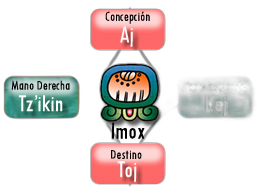
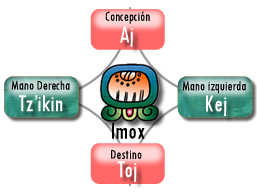
Agregando informacion calendario

diff --git a/Web/js/Infografia.js b/Web/js/Infografia.js
@@ -1,5 +1,5 @@
-// Función para generar la imagen y descargarla
-function descargarImagen() {
+ // Función para generar la imagen y descargarla
+ function descargarImagen() {
     // Capturar el elemento que contiene la información
     var elementoInfo = document.getElementById('infografia');
 
@@ -12,21 +12,27 @@ function descargarImagen() {
         var canvasConFondo = document.createElement('canvas');
         var ctxFondo = canvasConFondo.getContext('2d');
 
-        // Establecer el tamaño del canvas secundario
-        canvasConFondo.width = canvas.width;
-        canvasConFondo.height = canvas.height;
 
         var imagenFondo = new Image();
         imagenFondo.src = 'assets/tik.jpg';
 
         imagenFondo.onload = function () {
 
+            var elementoRect = elementoInfo.getBoundingClientRect();
+            // Establecer el tamaño del canvas secundario
+            canvasConFondo.width = elementoRect.width;
+            canvasConFondo.height = elementoRect.height;
 
             // Dibujar la imagen de fondo en el canvas secundario
             ctxFondo.drawImage(imagenFondo, 0, 0, canvasConFondo.width, canvasConFondo.height);
 
             // Dibujar la imagen original sobre el canvas secundario
             ctxFondo.drawImage(canvas, 0, 0);
+
+            ctxFondo.font = "bold 20px Arial";
+            ctxFondo.fillStyle = "white";
+            ctxFondo.textAlign = "end";
+            ctxFondo.fillText("tiempomaya.com", canvasConFondo.width - 20, canvasConFondo.height - 20);
 
             // Crear un enlace para descargar la imagen
             var enlace = document.createElement('a');

diff --git a/Web/css/calculadora.css b/Web/css/calculadora.css
@@ -14,7 +14,6 @@
     width: 60%;
     width: 50%; /* Cambiado a un porcentaje más alto */
     margin: auto;
-    padding: 20px;
 }
 
 #calendar {
@@ -23,7 +22,6 @@
     width: 60%;
     width: 50%; /* Cambiado a un porcentaje más alto */
     margin: auto;
-    padding: 20px;
 }
 
 .form-control {
@@ -85,8 +83,6 @@
     width: 100%;
     height: 100%;
 }
-
-
 
 
 

diff --git a/Web/calculadora.php b/Web/calculadora.php
@@ -14,7 +14,6 @@ $energia = include 'backend/buscar/conseguir_energia_numero.php';
 $haab = include 'backend/buscar/conseguir_uinal_nombre.php';
 $cuenta_larga = include 'backend/buscar/conseguir_fecha_cuenta_larga.php';
 $cholquij = $nahual . " " . strval($energia);
-$imagenNahual = include 'backend/buscar/conseguir_imagen_nahual.php';
 $infoUinal = include 'backend/buscar/conseguir_info_uinal.php';
 $infoNahual = include 'backend/buscar/conseguir_info_nahual.php';
 
@@ -82,7 +81,7 @@ $infoNahual = include 'backend/buscar/conseguir_info_nahual.php';
         <section id="formulario" class="row justify-content-center align-items-center">
             <div class="col-md-8">
                 <h3 class="text-light mt-3">Calculadora</h3>
-                <form action="#" method="GET">
+                <form action="#body-calc" method="GET">
                     <div class="mb-3">
                         <label for="fecha" class="form-label text-light">Fecha</label>
                         <?php
@@ -101,77 +100,86 @@ $infoNahual = include 'backend/buscar/conseguir_info_nahual.php';
                 </form>
             </div>
         </section>
-    
-    <section id="calendar" class="row justify-content-center align-items-center">
-        <div class="col-md-10" id="infografia">
-            <div class="calendar-section">
-                <h3 class="text-light fw-bold">Calendario Haab</h3>
-                <div class="info">
-                    <p class="text-light text-center fs-4"><?php echo isset($haab) ? $haab : ''; ?></p>
+
+        <section id="calendar" class="row justify-content-center align-items-center">
+            <div class="col-md-10" id="infografia">
+                <div class="calendar-section">
+                    <h3 class="text-light fw-bold mt-3">Calendario Haab</h3>
+                    <div class="info">
+                        <p class="text-light text-center fs-4"><?php echo isset($haab) ? $haab : ''; ?></p>
+                    </div>
+                    <div class="image">
+                        <img class="me-3 mb-3" src="<?php echo $infoUinal[0]['imagen'] ?>" alt="Imagen Haab">
+                        <img class="mb-3" src="<?php echo $infoUinal[0]['imagenDia'] ?>" alt="Imagen Maya">
+                        <div class="text-light">
+                            <h5 class="mt-2 mb-2 text-light fw-bold text-start">Significado</h5>
+                            <p class="mt-2 mb-2"><?php echo $infoUinal[0]['significado'] ?></p>
+                            <?php echo $infoUinal[0]['htmlCodigo'] ?>
+                        </div>
+                    </div>
                 </div>
-                <div class="image">
-                    <img class="me-3 mb-3" src="<?php echo $infoUinal[0]['imagen'] ?>" alt="Imagen Haab">
-                    <img class="mb-3" src="<?php echo $infoUinal[0]['imagenDia'] ?>" alt="Imagen Maya">
-                    <div class="text-light">
-                        <h5 class="mt-2 mb-2 text-light fw-bold text-start">Significado</h5>
-                        <p class="mt-2 mb-2"><?php echo $infoUinal[0]['significado'] ?></p>
-                        <?php echo $infoUinal[0]['htmlCodigo'] ?>
+
+                <div class="calendar-section mt-3">
+                    <h3 class="text-light fw-bold">Calendario Cholquij</h3>
+                    <div class="info">
+                        <p class="text-light text-center fs-4"><?php echo isset($cholquij) ? $cholquij : ''; ?></p>
+                    </div>
+                    <div class="image">
+                        <img class="me-3 mb-3" src="<?php echo $infoNahual[0]['imagen'] ?>" alt="Imagen Haab">
+                        <img class="mb-3" src="<?php echo $infoNahual[0]['imagenDia'] ?>" alt="Imagen Maya">
+                        <div class="text-light">
+                            <h5 class="mt-2 mb-2 text-light fw-bold text-start">Significado</h5>
+                            <p class="mt-2 mb-2"><?php echo $infoNahual[0]['significado'] ?></p>
+                            <?php echo $infoNahual[0]['htmlCodigo'] ?>
+                        </div>
+                    </div>
+                </div>
+
+                <div class="calendar-section mt-3">
+                    <h3 class="text-light fw-bold">Cuenta Larga</h3>
+                    <div class="info">
+                        <p class="text-light text-center fs-4 "><?php echo isset($cuenta_larga) ? $cuenta_larga[0] : ''; ?></p>
+                    </div>
+
+                    <div class="row row-cols-1 row-cols-md-5 g-3">
+                        <?php for ($i = 1; $i < count($cuenta_larga); $i += 3) { ?>
+                            <div class="col">
+                                <div class="image">
+
+                                    <img class="mb-3" src="<?php echo $cuenta_larga[$i + 1]; ?>" alt="Imagen Número Maya">
+                                    <img class="mb-3" src="<?php echo $cuenta_larga[$i]; ?>" alt="Imagen Cuenta Larga">
+                                    <p class="mb-1 text-center"><?php echo $cuenta_larga[$i + 2]; ?></p>
+
+                                </div>
+                            </div>
+                        <?php } ?>
+                    </div>
+
+                </div>
+
+                <div class="calendar-section mt-3">
+                    <h3 class="text-light fw-bold">Calendario Gregoriano</h3>
+                    <div class="info">
+                        <p class="text-light text-center fs-4">
+                            <?php
+                            // Mostrar la fecha seleccionada o la fecha actual en el párrafo
+                            $numero_mes = date('n', strtotime($fecha));
+                            $mes = $numero_mes < 10 ? '0' . $numero_mes : $numero_mes;
+                            $fecha_formateada = date('d/' . $mes . '/Y', strtotime($fecha));
+                            echo $fecha_formateada;
+                            ?>
+                        </p>
                     </div>
                 </div>
             </div>
-
-            <!-- Repite las siguientes secciones para los otros calendarios -->
-
-            <div class="calendar-section">
-                <h3 class="text-light fw-bold">Calendario Cholquij</h3>
-                <div class="info">
-                    <p class="text-light text-center fs-4"><?php echo isset($cholquij) ? $cholquij : ''; ?></p>
-                </div>
-                <div class="image">
-                    <img class="me-3 mb-3" src="<?php echo $infoNahual[0]['imagen'] ?>" alt="Imagen Haab">
-                    <img class="mb-3" src="<?php echo $infoNahual[0]['imagenDia'] ?>" alt="Imagen Maya">
-                    <div class="text-light">
-                        <h5 class="mt-2 mb-2 text-light fw-bold text-start">Significado</h5>
-                        <p class="mt-2 mb-2"><?php echo $infoNahual[0]['significado'] ?></p>
-                        <?php echo $infoNahual[0]['htmlCodigo'] ?>
-                    </div>
-                </div>
-            </div>
-
-
-
-
-            <div class="calendar-section">
-                <h3 class="text-light fw-bold">Calendario Larga</h3>
-                <div class="info">
-                    <p class="text-light"><?php echo isset($cuenta_larga) ? $cuenta_larga : ''; ?></p>
-                </div>
-                <div class="image">
-                    <img src="ruta_a_la_imagen_larga.png" alt="Imagen Larga">
-                </div>
-            </div>
-
-            <div class="calendar-section">
-                <h3 class="text-light fw-bold">Calendario Gregoriano</h3>
-                <div class="info">
-                    <p class="text-light text-center fs-4">
-                        <?php
-                        // Mostrar la fecha seleccionada o la fecha actual en el párrafo
-                        $numero_mes = date('n', strtotime($fecha));
-                        $mes = $numero_mes < 10 ? '0' . $numero_mes : $numero_mes;
-                        $fecha_formateada = date('d/' . $mes . '/Y', strtotime($fecha));
-                        echo $fecha_formateada;
-                        ?>
-                    </p>
-                </div>
-            </div>
+        </section>
+        <div class="text-center">
+            <button id="btnDescargar" class="btn btn-primary mt-3">Descargar Imagen</button>
         </div>
-    </section>
-    <div class="text-center">
-        <button id="btnDescargar" class="btn btn-primary mt-3">Descargar Imagen</button>
-    </div>
     </div>
     <?php include "blocks/bloquesJs1.html" ?>
+
+
 
 </body>
 

diff --git a/Web/backend/buscar/conseguir_fecha_cuenta_larga.php b/Web/backend/buscar/conseguir_fecha_cuenta_larga.php
@@ -68,6 +68,28 @@ if ($number4 > 19) {
 }
 $number5=12+$pivot;
 
-return strval($number5).".".strval($number4).".".strval($number3).".".strval($number2).".".strval($number1);
+$array = array();
+$array[] = strval($number5).".".strval($number4).".".strval($number3).".".strval($number2).".".strval($number1);
+$array[] = 'assets/imagenesCuentaLarga/Baktun.png';
+$array[] = 'assets/numerosMayas/'.$number5.'.png';
+$array[] = 'Baktun';
+
+$array[] = 'assets/imagenesCuentaLarga/Katun.png';
+$array[] = 'assets/numerosMayas/'.$number4.'.png';
+$array[] = 'Katun';
+
+$array[] = 'assets/imagenesCuentaLarga/Tun.png';
+$array[] = 'assets/numerosMayas/'.$number3.'.png';
+$array[] = 'Tun';
+
+$array[] = 'assets/imagenesCuentaLarga/Uinal.png';
+$array[] = 'assets/numerosMayas/'.$number2.'.png';
+$array[] = 'Uinal';
+
+$array[] = 'assets/imagenesCuentaLarga/Kin.png';
+$array[] = 'assets/numerosMayas/'.$number1.'.png';
+$array[] = 'Kin';
+
+return $array;
 
 ?>

diff --git a/Web/backend/buscar/conseguir_info_nahual.php b/Web/backend/buscar/conseguir_info_nahual.php
@@ -9,6 +9,19 @@ if ($nahual < 0) {
 $Query = $conn->query("SELECT imagen, significado, htmlCodigo FROM nahual WHERE idweb=".$nahual." ;");
 $resultArray = array();
 
+$for = mktime(0, 0, 0, 1, 1, 1720) / (24 * 60 * 60);
+$fech = date("U", strtotime($fecha_consultar)) / (24 * 60 * 60);
+$idd = $fech - $for;
+$nn = $idd % 13;
+if($nn<0){
+	$nn=12+$nn;
+}
+if($nn==12){
+	$nn = 1;
+}else{
+	$nn = $nn+2;
+}
+
 // Iterar sobre los resultados
 while ($row = mysqli_fetch_assoc($Query)) {
     // Extraer los valores de la fila
@@ -24,7 +37,7 @@ while ($row = mysqli_fetch_assoc($Query)) {
         'imagen' => $query,
         'significado' => $significado,
         'htmlCodigo' => $htmlCodigo,
-        'imagenDia' => 'assets/numerosMayas/'.$dia.'.png'
+        'imagenDia' => 'assets/numerosMayas/'.$nn.'.png'
     );
 }
 
